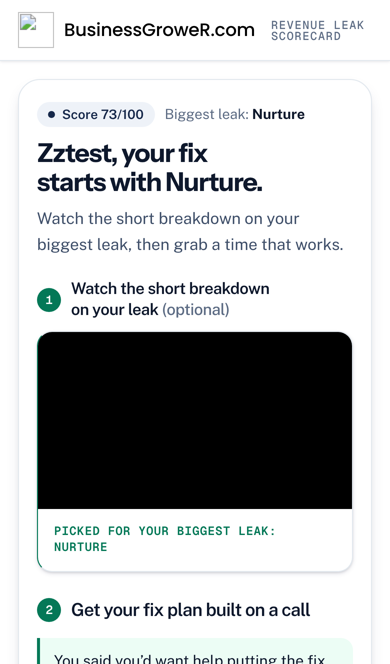
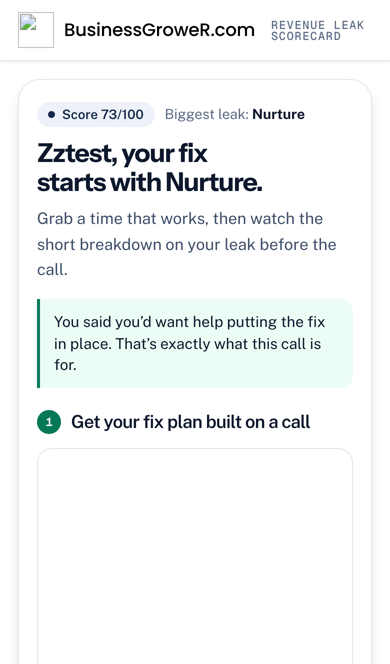
Scorecard v3: calendar above video, 1s scoring for qualified (Jeremy audit 15 Nov)
Claude-Session: https://claude.ai/code/session_01VgMnQ6ANe1Sz2DVxmu5JWS

Changed region(s): [[0.0923, 0.3012, 0.9231, 1.0], [0.1846, 0.9036, 0.8, 0.9337]]

diff --git a/funnels/scorecard/v3-bookfirst/scorecard-v3-element.html b/funnels/scorecard/v3-bookfirst/scorecard-v3-element.html
@@ -596,7 +596,8 @@ img,svg,video,iframe{max-width:100%}
 .book-first .bf-chip{display:flex;flex-wrap:wrap;align-items:center;gap:8px 10px;margin:0;font-size:14px;color:var(--muted)}
 .book-first .bf-chip b{color:var(--navy)}
 .book-first .bf-h{margin-top:12px;font:700 clamp(26px, 1.4vw + 20px, 36px)/1.1 var(--f-display);letter-spacing:-.03em;color:var(--navy)}
-.book-first .bf-ask{font-size:18px;margin-top:26px}
+.book-first .bf-ask{font-size:18px;margin-top:22px}
+.book-first .bf-vid{margin-top:28px}
 .book-first .bf-opt{font-style:normal;font-weight:500;color:var(--muted)}
 .book-first .vp-body .vid-t,.book-first .vp-body .vid-src{display:none}
 .book-first .sh-t{font-style:normal}
@@ -1675,7 +1676,7 @@ function showVendor(){ return showPropExit(); }
 
 function runAnalyzing(){
   var a = state.a;
-  state.step = {kind:"analyzing"};
+  state.step = {kind:"analyzing"}; var fastAn = routeOf(a) === "qualified";
   $("#an-title").textContent = "Scoring your answers, " + (a.name || "there");
   $("#an-rows").innerHTML = PARTS.map(function(p){
     var v = num(a[p.id]);
@@ -1686,10 +1687,10 @@ function runAnalyzing(){
   rows.forEach(function(r, i){
     setTimeout(function(){
       $("i", r).style.width = Math.max(4, Number(r.getAttribute("data-v"))) + "%";
-      setTimeout(function(){ r.classList.add("done"); }, reduce ? 0 : 520);
-    }, reduce ? 0 : 180 + i * 300);
+      setTimeout(function(){ r.classList.add("done"); }, reduce || fastAn ? 0 : 520);
+    }, reduce ? 0 : (fastAn ? 60 + i * 120 : 180 + i * 300));
   });
-  setTimeout(showResult, reduce ? 700 : 2700);
+  setTimeout(showResult, reduce ? 700 : (fastAn ? 1000 : 2700)); /* V3-BOOKFIRST: qualified gets ~1s */
 }
 
 function calendarHTML(a){
@@ -1701,15 +1702,15 @@ function bookingHTML(a, s, b){ /* V3-BOOKFIRST 2026-11-14: booking panel is the 
   return '<div class="panel book-first" id="book-first">' +
     '<p class="bf-chip"><span class="pill tone-' + b.tone + '">Score ' + s + '/100</span><span>' + (lever ? 'Next lever' : 'Biggest leak') + ': <b>' + esc(leak.label) + '</b></span></p>' +
     '<h1 class="bf-h" id="res-title" tabindex="-1">' + (a.name ? esc(a.name) + ', your' : 'Your') + ' fix starts with ' + esc(leak.label) + '.</h1>' +
-    '<p class="lead">Watch the short breakdown on your ' + (lever ? 'next lever' : 'biggest leak') + ', then grab a time that works.</p>' +
-    (vh ? '<h3 class="step-h"><span aria-hidden="true">1</span><i class="sh-t">Watch the short breakdown on your leak <em class="bf-opt">(optional)</em></i></h3>' + vh : '') +
-    '<h2 class="step-h bf-ask"><span aria-hidden="true">' + (vh ? '2' : '1') + '</span>Get your fix plan built on a call</h2>' +
+    '<p class="lead">Grab a time that works, then watch the short breakdown on your leak before the call.</p>' +
     (a.tiedown === "yes" ? '<p class="callback">You said you’d want help putting the fix in place. That’s exactly what this call is for.</p>'
       : a.tiedown === "maybe" ? '<p class="callback">You said you’d like to see the plan first. That’s what this call is.</p>' : '') +
+    '<h2 class="step-h bf-ask"><span aria-hidden="true">1</span>Get your fix plan built on a call</h2>' +
     calendarHTML(a) +
     '<p class="free"><b>The call is free.</b> Nothing is charged when you book.</p>' +
     '<p class="stl"' + (state.showSTL ? '' : ' hidden') + '>A strategist will text you in the next few minutes.</p>' +
     (a.partners === "yes" ? '<p class="note">Add your partner as a guest when you book, so they can join the call.</p>' : '') +
+    (vh ? '<h3 class="step-h bf-vid"><span aria-hidden="true">2</span><i class="sh-t">Before your call: the short breakdown on your leak</i></h3>' + vh : '') +
     '</div>';
 }
 

diff --git a/funnels/scorecard/v3-bookfirst/build_v3.py b/funnels/scorecard/v3-bookfirst/build_v3.py
@@ -20,12 +20,27 @@ rep('''function bookingHTML(a){
   return '<div class="panel book-first" id="book-first">' +
     '<p class="bf-chip"><span class="pill tone-' + b.tone + '">Score ' + s + '/100</span><span>' + (lever ? 'Next lever' : 'Biggest leak') + ': <b>' + esc(leak.label) + '</b></span></p>' +
     '<h1 class="bf-h" id="res-title" tabindex="-1">' + (a.name ? esc(a.name) + ', your' : 'Your') + ' fix starts with ' + esc(leak.label) + '.</h1>' +
-    '<p class="lead">Watch the short breakdown on your ' + (lever ? 'next lever' : 'biggest leak') + ', then grab a time that works.</p>' +
-    (vh ? '<h3 class="step-h"><span aria-hidden="true">1</span><i class="sh-t">Watch the short breakdown on your leak <em class="bf-opt">(optional)</em></i></h3>' + vh : '') +
-    '<h2 class="step-h bf-ask"><span aria-hidden="true">' + (vh ? '2' : '1') + '</span>Get your fix plan built on a call</h2>' +
+    '<p class="lead">Grab a time that works, then watch the short breakdown on your leak before the call.</p>' +
     (a.tiedown === "yes" ? '<p class="callback">You said you’d want help putting the fix in place. That’s exactly what this call is for.</p>'
       : a.tiedown === "maybe" ? '<p class="callback">You said you’d like to see the plan first. That’s what this call is.</p>' : '') +
+    '<h2 class="step-h bf-ask"><span aria-hidden="true">1</span>Get your fix plan built on a call</h2>' +
     calendarHTML(a) +''')
+
+rep('''    (a.partners === "yes" ? '<p class="note">Add your partner as a guest when you book, so they can join the call.</p>' : '') +
+    '</div>';
+}''', '''    (a.partners === "yes" ? '<p class="note">Add your partner as a guest when you book, so they can join the call.</p>' : '') +
+    (vh ? '<h3 class="step-h bf-vid"><span aria-hidden="true">2</span><i class="sh-t">Before your call: the short breakdown on your leak</i></h3>' + vh : '') +
+    '</div>';
+}''')
+# 1b. qualified: scoring animation ~1s (Jeremy audit 15 Nov)
+rep('''      setTimeout(function(){ r.classList.add("done"); }, reduce ? 0 : 520);
+    }, reduce ? 0 : 180 + i * 300);
+  });
+  setTimeout(showResult, reduce ? 700 : 2700);''', '''      setTimeout(function(){ r.classList.add("done"); }, reduce || fastAn ? 0 : 520);
+    }, reduce ? 0 : (fastAn ? 60 + i * 120 : 180 + i * 300));
+  });
+  setTimeout(showResult, reduce ? 700 : (fastAn ? 1000 : 2700)); /* V3-BOOKFIRST: qualified gets ~1s */''')
+rep('''  state.step = {kind:"analyzing"};''', '''  state.step = {kind:"analyzing"}; var fastAn = routeOf(a) === "qualified";''')
 
 # 2. result page: qualified -> booking panel first, full report below, no second next-step aside, no jump button
 rep('''  var html =
@@ -50,7 +65,8 @@ rep('''</style>''', '''/* V3-BOOKFIRST */
 .book-first .bf-chip{display:flex;flex-wrap:wrap;align-items:center;gap:8px 10px;margin:0;font-size:14px;color:var(--muted)}
 .book-first .bf-chip b{color:var(--navy)}
 .book-first .bf-h{margin-top:12px;font:700 clamp(26px, 1.4vw + 20px, 36px)/1.1 var(--f-display);letter-spacing:-.03em;color:var(--navy)}
-.book-first .bf-ask{font-size:18px;margin-top:26px}
+.book-first .bf-ask{font-size:18px;margin-top:22px}
+.book-first .bf-vid{margin-top:28px}
 .book-first .bf-opt{font-style:normal;font-weight:500;color:var(--muted)}
 .book-first .vp-body .vid-t,.book-first .vp-body .vid-src{display:none}
 .book-first .sh-t{font-style:normal}
